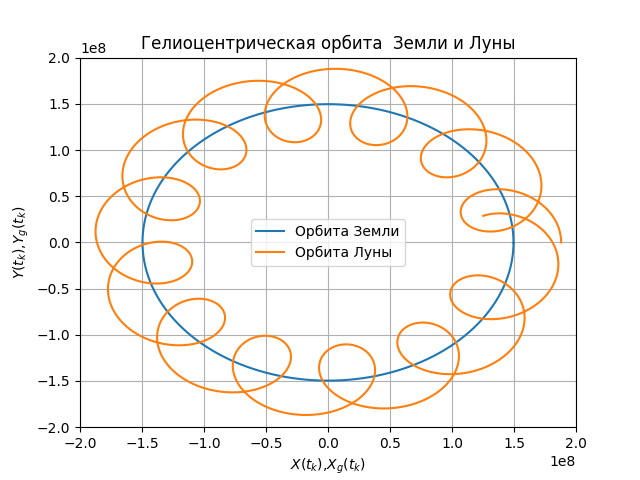
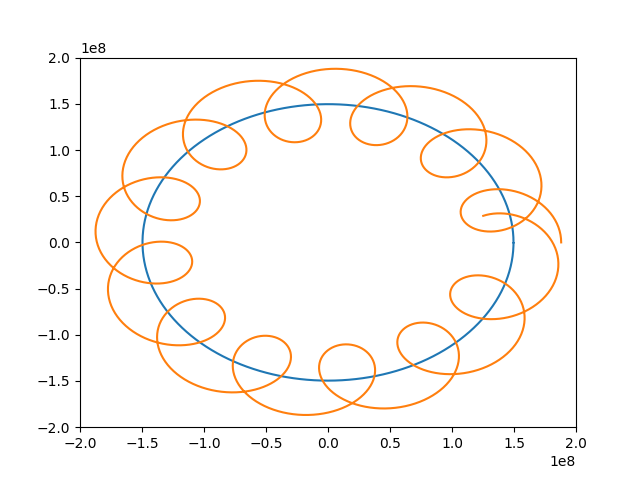
edfc

diff --git a/4.py b/4.py
@@ -1,5 +1,8 @@
-import numpy as np
+import matplotlib.animation as animation
 import matplotlib.pyplot as plt
+import numpy as np
+
+fig, ax = plt.subplots()
 
 R1=1.496*10**8#Числовые данные для расчётов взяты из  публикации [6]
 T1=3.156*10**7
@@ -14,20 +17,32 @@ def x(t):
          return R2*np.cos(2*np.pi*t/T2)
 def y(t):
          return R2*np.sin(2*np.pi*t/T2)
+
+
+
+
+
+
+
+
 t=[T1*i/N for i in np.arange(0,N,1)]
-X=np.array([X(w) for w in t])
-Y=np.array([Y(w) for w in t])
-x=np.array([x(w) for w in t])
-y=np.array([y(w) for w in t])
-XG=X+x
-YG=Y+y
-plt.figure()
-plt.title("Гелиоцентрическая орбита  Земли и Луны")
-plt.xlabel('$X(t_{k})$,$X_{g}(t_{k})$')
-plt.ylabel('$Y(t_{k})$,$Y_{g}(t_{k})$')
-plt.axis([-2.0*10**8,2.0*10**8,-2.0*10**8,2.0*10**8])
-plt.plot(X,Y,label='Орбита Земли')
-plt.plot(XG,YG,label='Орбита Луны')
-plt.legend(loc='best')
-plt.grid(True)
-plt.savefig('graficlunaandzemly.png')
+def animate(i):
+    X=np.array([X(w) for w in t], t=i)
+    Y=np.array([Y(w) for w in t], t=i)
+    x=np.array([x(w) for w in t], t=i)
+    y=np.array([y(w) for w in t], t=i)
+    XG=X+x
+    YG=Y+y
+    plt.figure()
+    plt.axis([-2.0*10**8,2.0*10**8,-2.0*10**8,2.0*10**8])
+    plt.plot(X,Y)
+    plt.plot(XG,YG)
+    return
+
+ani = animation.FuncAnimation(fig,
+                              animate,
+                              frames=t,
+                              interval=70,
+                              repeat=True
+                             )
+ani.save('4.gif')
